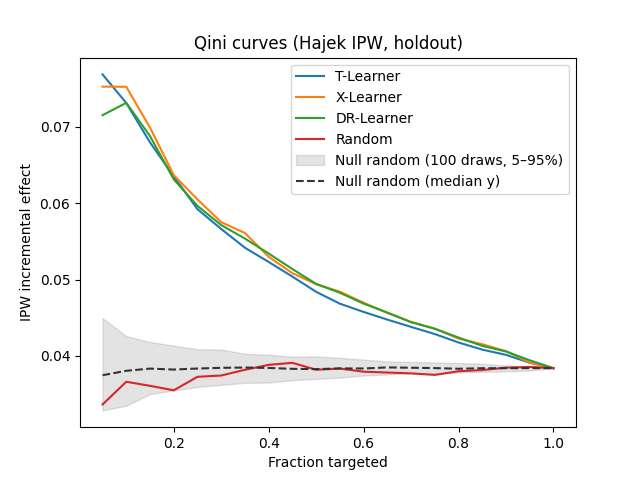
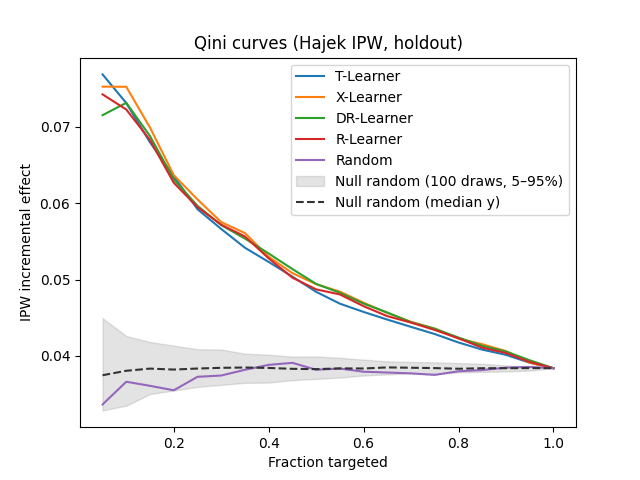
Add R-learner to comparison

diff --git a/models/uplift.py b/models/uplift.py
@@ -82,3 +82,42 @@ class DRLearner:
 
     def predict_uplift(self, X):
         return self.final_model.predict(X)
+
+
+class RLearner:
+    """
+    R-learner CATE via residual-on-residual regression:
+      (Y - m(X)) ≈ (T - e(X)) * τ(X)
+    We fit a final model on pseudo-target (Y - m)/(T - e) with
+    sample weights (T - e)^2.
+    """
+
+    def __init__(self):
+        self.propensity = GradientBoostingClassifier(**gb_params)
+        self.outcome = GradientBoostingRegressor(**gb_params)
+        self.final_model = GradientBoostingRegressor(**gb_params)
+
+    def fit(self, X, t, y):
+        t = np.asarray(t, dtype=float)
+        y = np.asarray(y, dtype=float)
+
+        self.propensity.fit(X, t.astype(int))
+        e = np.clip(
+            self.propensity.predict_proba(X)[:, 1],
+            PROPENSITY_CLIP_LOW,
+            PROPENSITY_CLIP_HIGH,
+        )
+
+        self.outcome.fit(X, y)
+        m = self.outcome.predict(X)
+
+        w = t - e
+        # Clip denominator away from 0 to avoid exploding pseudo-targets.
+        w_safe = np.where(np.abs(w) < 1e-3, np.sign(w) * 1e-3 + (w == 0) * 1e-3, w)
+        pseudo = (y - m) / w_safe
+        sample_weight = np.square(w)
+
+        self.final_model.fit(X, pseudo, sample_weight=sample_weight)
+
+    def predict_uplift(self, X):
+        return self.final_model.predict(X)

diff --git a/evaluation/report_generator.py b/evaluation/report_generator.py
@@ -27,9 +27,10 @@ from evaluation.metrics import (
 def plot_uplift_distribution(models_results):
 
     plt.figure()
+    bin_edges = np.arange(-0.1, 0.15 + 0.004, 0.004)
 
     for r in models_results:
-        plt.hist(r["uplift"], bins=50, alpha=0.4, label=r["name"], density=True)
+        plt.hist(r["uplift"], bins=bin_edges, alpha=0.4, label=r["name"], density=True)
 
     plt.title("Uplift Distribution by Model")
     plt.xlim(-0.1, 0.15)
@@ -91,7 +92,11 @@ def print_evaluation_summary(models_results, true_effect):
     One ranked table: Qini excess vs random null, raw Qini, policies, regret, corr.
     """
     oracle_val = oracle_policy_value(true_effect)
-    ranked = sorted(models_results, key=lambda x: x["qini_auc_excess"], reverse=True)
+    ranked = sorted(
+        models_results,
+        key=lambda x: (round(x["qini_auc_excess"], METRIC_DECIMALS), x["corr"]),
+        reverse=True,
+    )
     n_splits = int(models_results[0].get("n_splits", 1))
     d = METRIC_DECIMALS
     # Fixed-width numeric formatting: show '-' when negative, no '+' when positive.
@@ -108,7 +113,7 @@ def print_evaluation_summary(models_results, true_effect):
         f"Qini Δ: Qini raw minus the median of {QINI_NULL_DRAWS} random-ranking AUCs "
         f"({fmt(null_ref)}, averaged across splits)."
     )
-    print("Models are ranked by Qini Δ.\n")
+    print("Models are ranked by Qini Δ (ties broken by Corr (true)).\n")
     print("Random baseline:")
     print("- Qini raw is set to that null median.")
     print("- Qini Δ is fixed at 0.")

diff --git a/main.py b/main.py
@@ -13,7 +13,7 @@ from config import (
     RANDOM_SEED,
 )
 from data.simulate_ads import generate_ads_data
-from models.uplift import TLearner, XLearner, DRLearner
+from models.uplift import TLearner, XLearner, DRLearner, RLearner
 from models.baselines import RandomPolicy
 
 from evaluation.leaderboard import evaluate_model
@@ -42,6 +42,7 @@ def main():
         ("T-Learner", TLearner),
         ("X-Learner", XLearner),
         ("DR-Learner", DRLearner),
+        ("R-Learner", RLearner),
         ("Random", RandomPolicy),
     ]
     by_model = {

diff --git a/README.md b/README.md
@@ -4,7 +4,7 @@ This repository trains and evaluates **uplift / heterogeneous treatment effect**
 
 ## Purpose
 
-- Compare **meta-learners** (T-, X-, DR-Learner) that predict per-unit uplift against a **random ranking** baseline.
+- Compare **meta-learners** (T-, X-, DR-, R-Learner) that predict per-unit uplift against a **random ranking** baseline.
 - Report **ranking quality** (Qini-style curves and excess AUC vs random), **policy value** in the top-scored slice, **calibration** of predictions against Hajek IPW effects, and agreement with **true** `τ` where available.
 - Support reproducible **holdout Monte Carlo** evaluation (multiple train/test splits with stratified treatment).
 
@@ -15,13 +15,14 @@ This repository trains and evaluates **uplift / heterogeneous treatment effect**
 | **T-Learner** | Separate outcome models for treated and control; uplift is the difference in predicted conversion probabilities. |
 | **X-Learner** | Two-stage approach using imputed treatment effects on treated and control arms, then combined for uplift. |
 | **DR-Learner** | Doubly robust pseudo-outcome (propensity + outcome models, then regression on the DR target) for CATE. |
+| **R-Learner** | Residual-on-residual CATE learner that removes baseline outcome and treatment propensity, then fits treatment effect from residualized signal. |
 | **Random** | Baseline that uses random scores (Gaussian with `σ` matched to the scale of `τ` under the Beta DGP) for ranking and Qini curves; used to define the **null** for Qini excess. |
 
 ## Metrics
 
 - **Oracle policy value (true `τ`, top fraction):** Best achievable mean `τ` in the top policy fraction using the true CATE—an upper bound for ranking by `τ`.
 - **Qini raw:** Area under the **Hajek IPW** incremental-effect curve on the test set as the targeted fraction grows (higher is better).
-- **Qini Δ:** Qini raw minus the **median** of 100 **random-ranking** Qini AUCs (null); averaged across holdout splits. Models are **ranked by Qini Δ**.
+- **Qini Δ:** Qini raw minus the **median** of 100 **random-ranking** Qini AUCs (null); averaged across holdout splits. Models are **ranked by Qini Δ**, with `Corr (true)` used to break ties.
 - **Random baseline:** Qini raw is set to that null median; Qini Δ is **0**. Policy and correlation use random Gaussian scores; the Qini curve uses the same scores.
 - **Policy (IPW obs):** Hajek **observed** treatment effect in the top-scored slice (propensity `ê(X)` for IPW is fit on **train only**).
 - **Policy (true `τ`):** Mean **simulator** `τ` in that same top-scored slice (not IPW-adjusted).
@@ -35,24 +36,25 @@ This repository trains and evaluates **uplift / heterogeneous treatment effect**
 
 **Holdout Monte Carlo:** 3 splits  
 
-**Qini Δ:** Qini raw minus the median of 100 random-ranking AUCs (**0.036**, averaged across splits). Models ranked by Qini Δ.
+**Qini Δ:** Qini raw minus the median of 100 random-ranking AUCs (**0.036**, averaged across splits). Models ranked by Qini Δ, with Corr (true) as tie-breaker.
 
 | Rank | Model | Qini Δ (vs null) | Qini raw | Policy (IPW obs) | Policy (true `τ`) | Regret (true `τ`) | Avg uplift | Corr (true) |
 |------|--------|---------------------------|----------|------------------|------------------------|------------------------|------------|-------------|
 | 1 | X-Learner | 0.013 | 0.049 | 0.064 | 0.063 | 0.000 | 0.038 | 0.929 |
-| 2 | DR-Learner | 0.012 | 0.049 | 0.063 | 0.063 | 0.001 | 0.038 | 0.873 |
-| 3 | T-Learner | 0.012 | 0.048 | 0.064 | 0.062 | 0.001 | 0.039 | 0.853 |
-| 4 | Random | 0.000 | 0.036 | 0.035 | 0.039 | 0.025 | −0.000 | 0.001 |
+| 2 | R-Learner | 0.012 | 0.049 | 0.063 | 0.062 | 0.001 | 0.038 | 0.875 |
+| 3 | DR-Learner | 0.012 | 0.049 | 0.063 | 0.063 | 0.001 | 0.038 | 0.873 |
+| 4 | T-Learner | 0.012 | 0.048 | 0.064 | 0.062 | 0.001 | 0.039 | 0.853 |
+| 5 | Random | 0.000 | 0.036 | 0.035 | 0.039 | 0.025 | −0.000 | 0.001 |
 
 ### How to read these results
 
-- **Primary ranking metric:** models are ordered by **Qini Δ** (excess over random-null Qini AUC).
+- **Primary ranking metric:** models are ordered by **Qini Δ** (excess over random-null Qini AUC), with `Corr (true)` used to break ties.
 - **Corr (true):** a global alignment check between predicted uplift and true per-row effect `τ` across the full test set. Higher is better.
 - **Policy / regret:** practical top-slice quality. Higher `Policy (true τ)` and lower `Regret (true τ)` indicate better targeting decisions.
 
 ### Key takeaway
 
-X-, DR-, and T-Learners all beat the random baseline on Qini Δ and achieve policy value near the oracle on true `τ`. X-Learner has the strongest overall alignment by `Corr (true)`, while Random stays near zero correlation and has much higher regret.
+X-, R-, DR-, and T-Learners all beat the random baseline on Qini Δ and achieve policy value near the oracle on true `τ`. X-Learner has the strongest overall alignment by `Corr (true)`, with R-Learner and DR-Learner close behind, while Random stays near zero correlation and has much higher regret.
 
 ## Figures
 